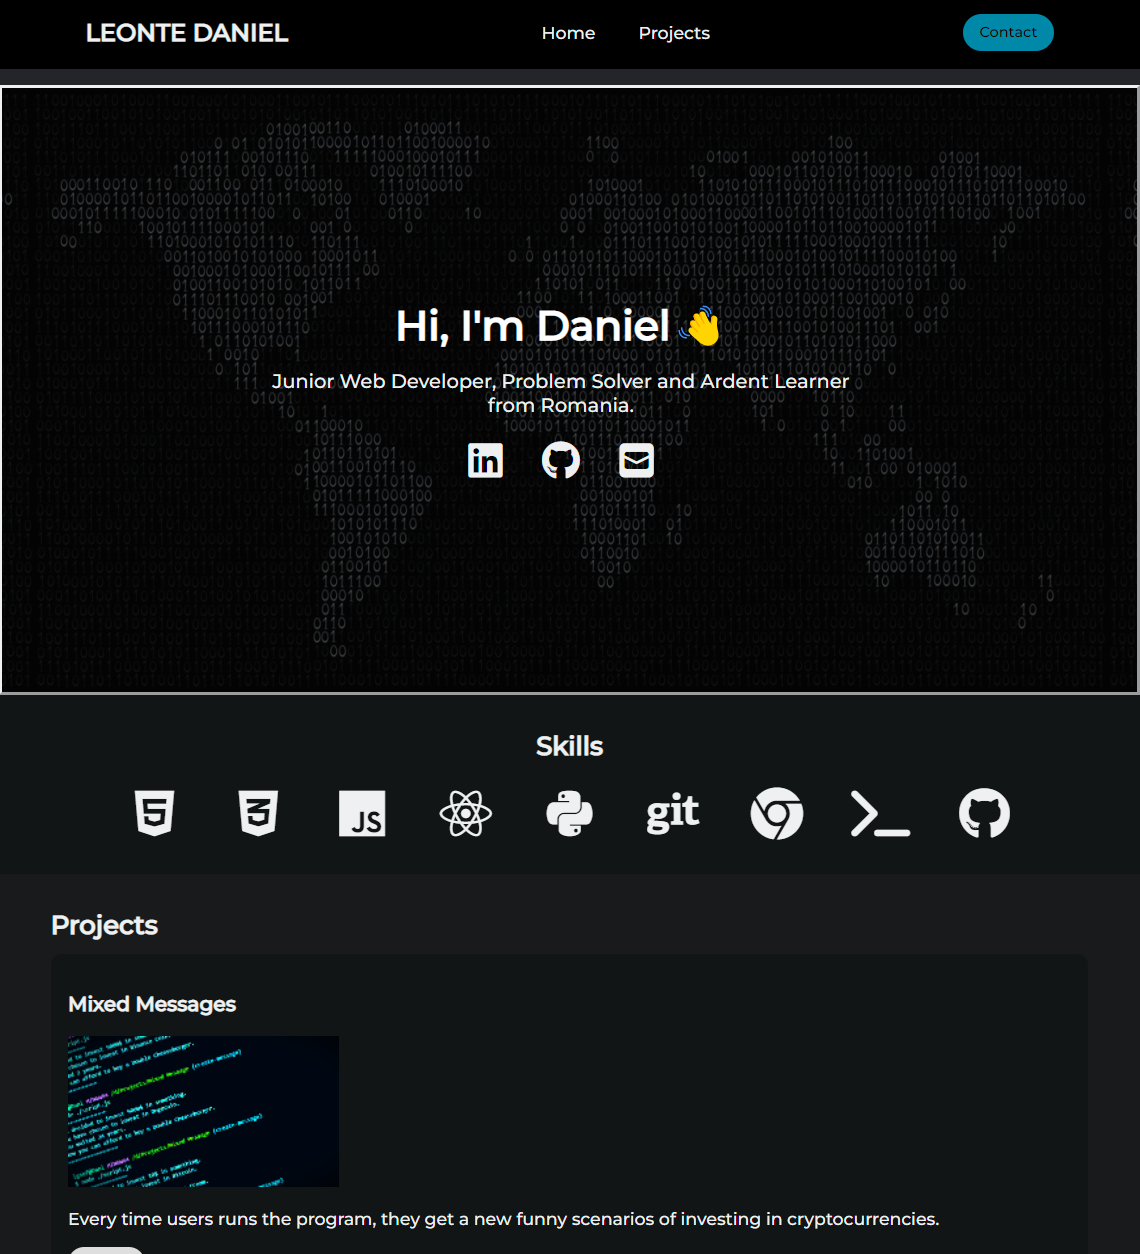
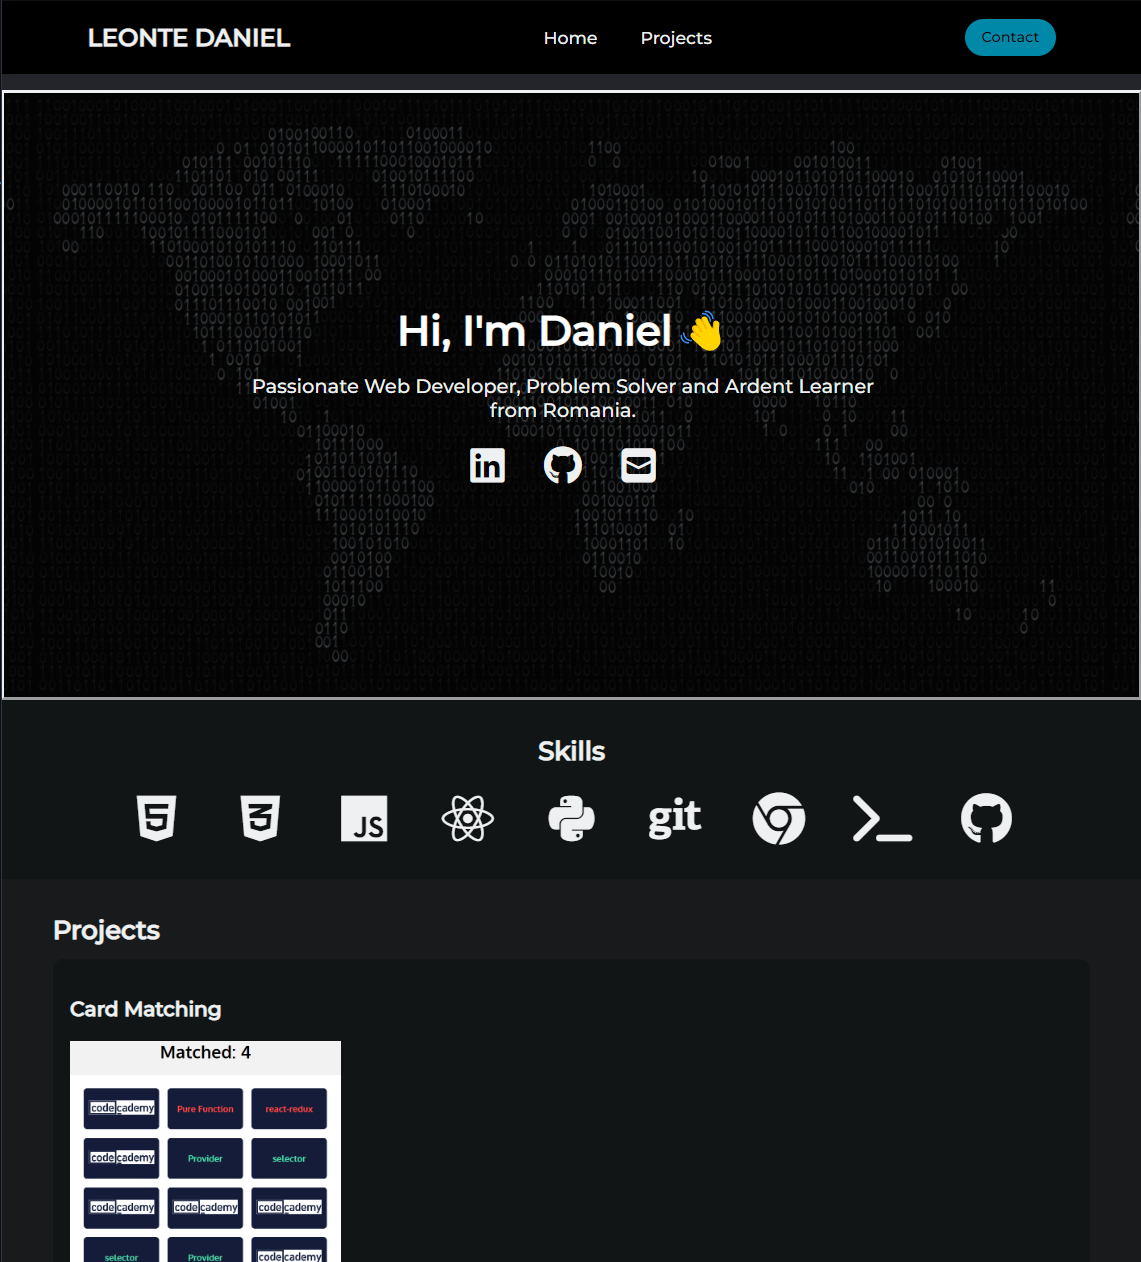
Update about-me text

diff --git a/index.html b/index.html
@@ -26,7 +26,7 @@
         <div class="about-me-container">
           <div class="about-me-text-container">
             <h2>Hi, I'm Daniel👋</h2>
-            <p>Junior Web Developer, Problem Solver and Ardent Learner <br> from Romania.</p>
+            <p>Passionate Web Developer, Problem Solver and Ardent Learner <br> from Romania.</p>
 
             <div id="contact-icon-container-home">
               <a href="https://www.linkedin.com/in/daniel-leonte/" target="_blank"><i id="contact-linkedin-bt" class="fab fa-linkedin icon"></i></a>
